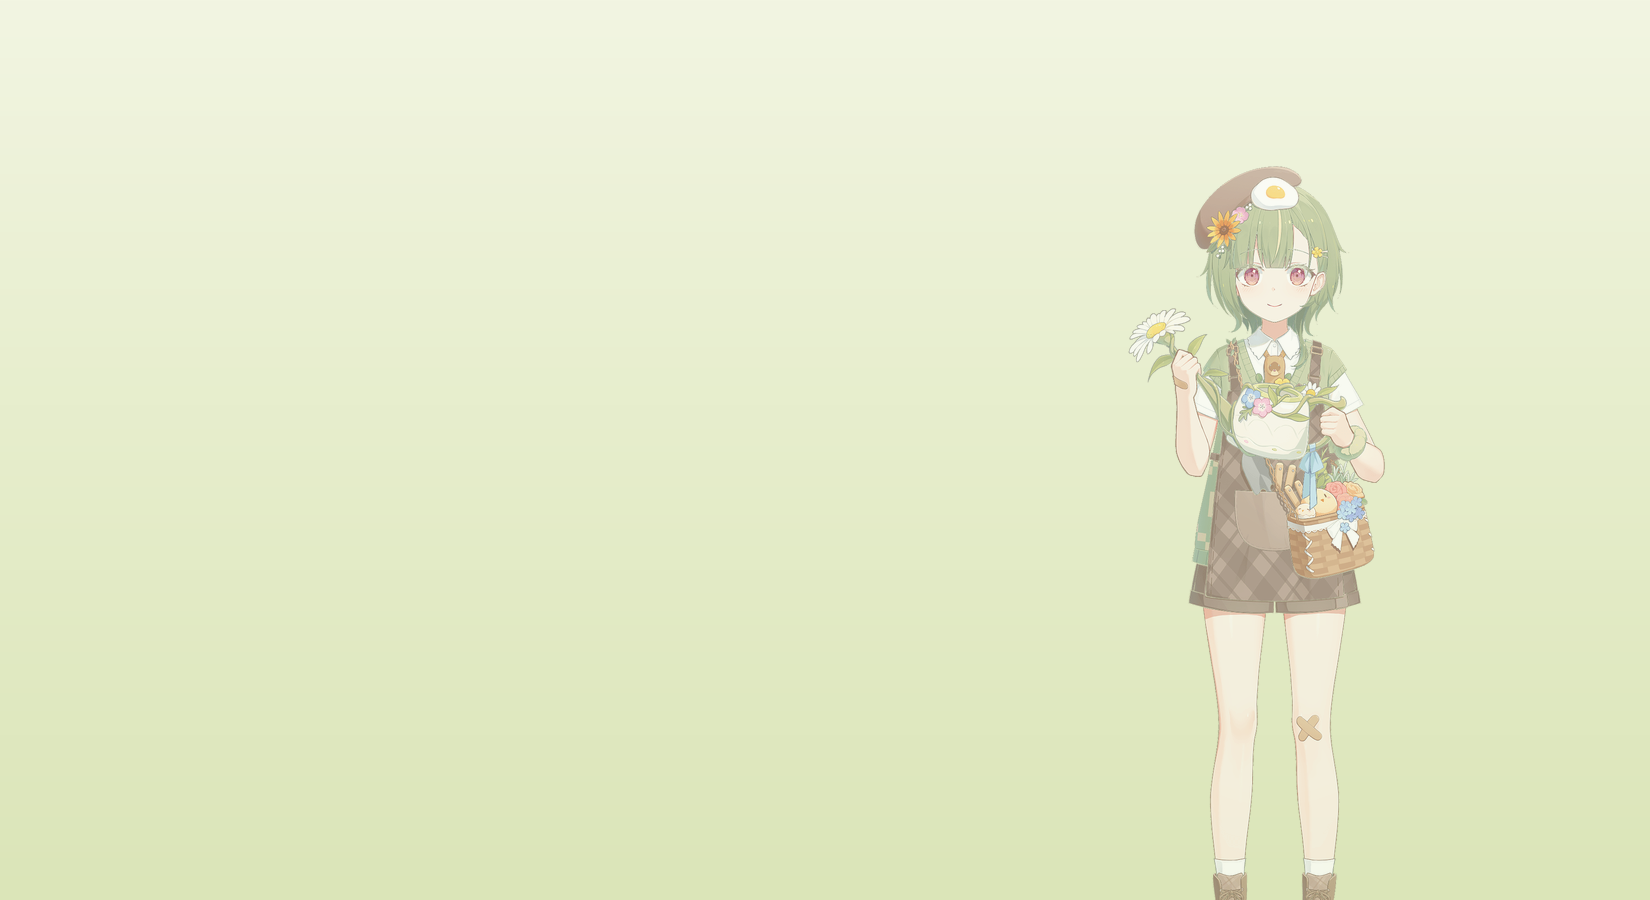
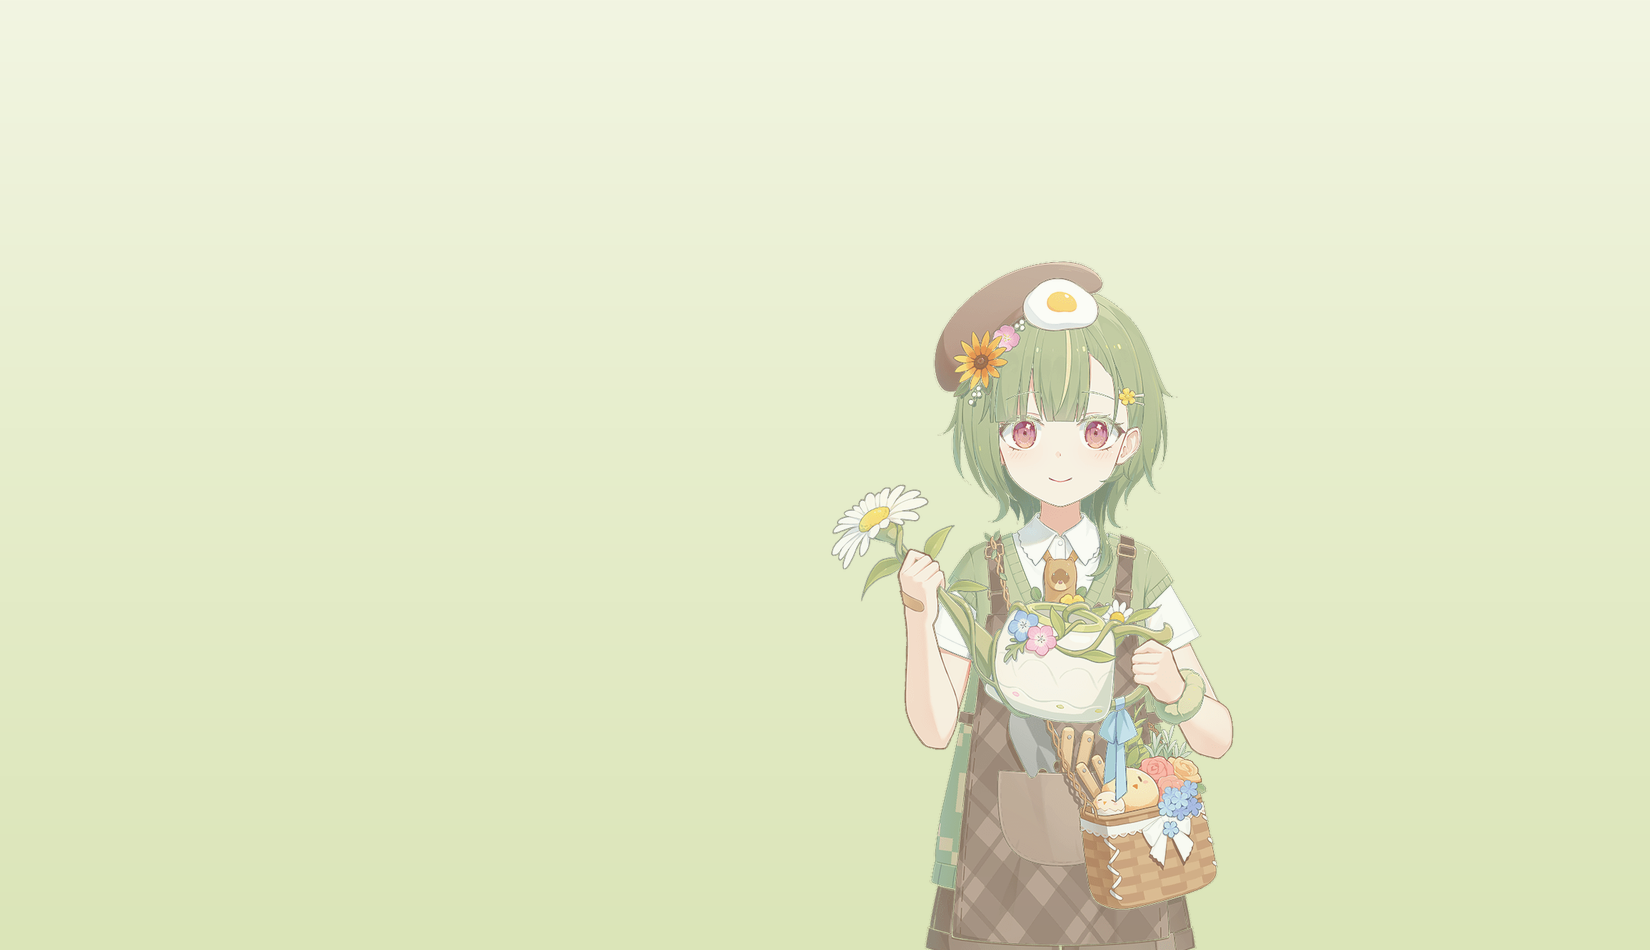
背景人物放大到膝盖以上、更清晰，bg-full?v=2强制刷新缓存

Changed region(s): [[0.4945, 0.1867, 0.8345, 1.0]]

diff --git a/index.html b/index.html
@@ -1945,7 +1945,7 @@
 
     /* ===== 主题色半透明毛玻璃（覆盖白底模块） ===== */
     html, body {
-      background: url('assets/bg-full.png') center/cover no-repeat fixed;
+      background: url('assets/bg-full.png?v=2') center/cover no-repeat fixed;
     }
     .app { background: transparent; box-shadow: none; position: relative; z-index: 1; }
     /* 通用毛玻璃卡片 */

diff --git a/buttons/index.html b/buttons/index.html
@@ -48,7 +48,7 @@
     html, body {
       margin: 0;
       padding: 0;
-      background: url('../assets/bg-full.png') center/cover no-repeat fixed;
+      background: url('../assets/bg-full.png?v=2') center/cover no-repeat fixed;
       color: var(--text);
       font-family: 'Microsoft YaHei', 'Segoe UI', sans-serif;
       min-height: 100vh;
